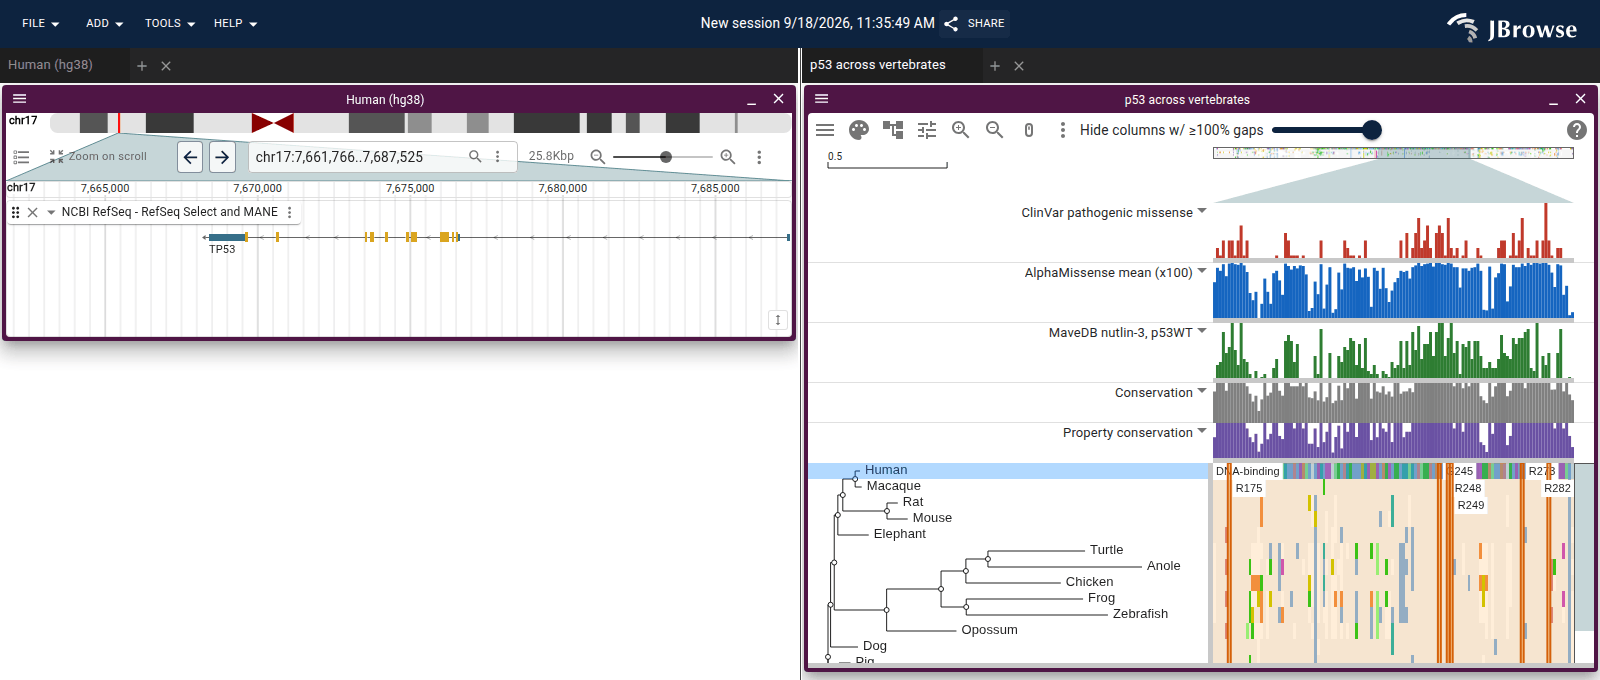
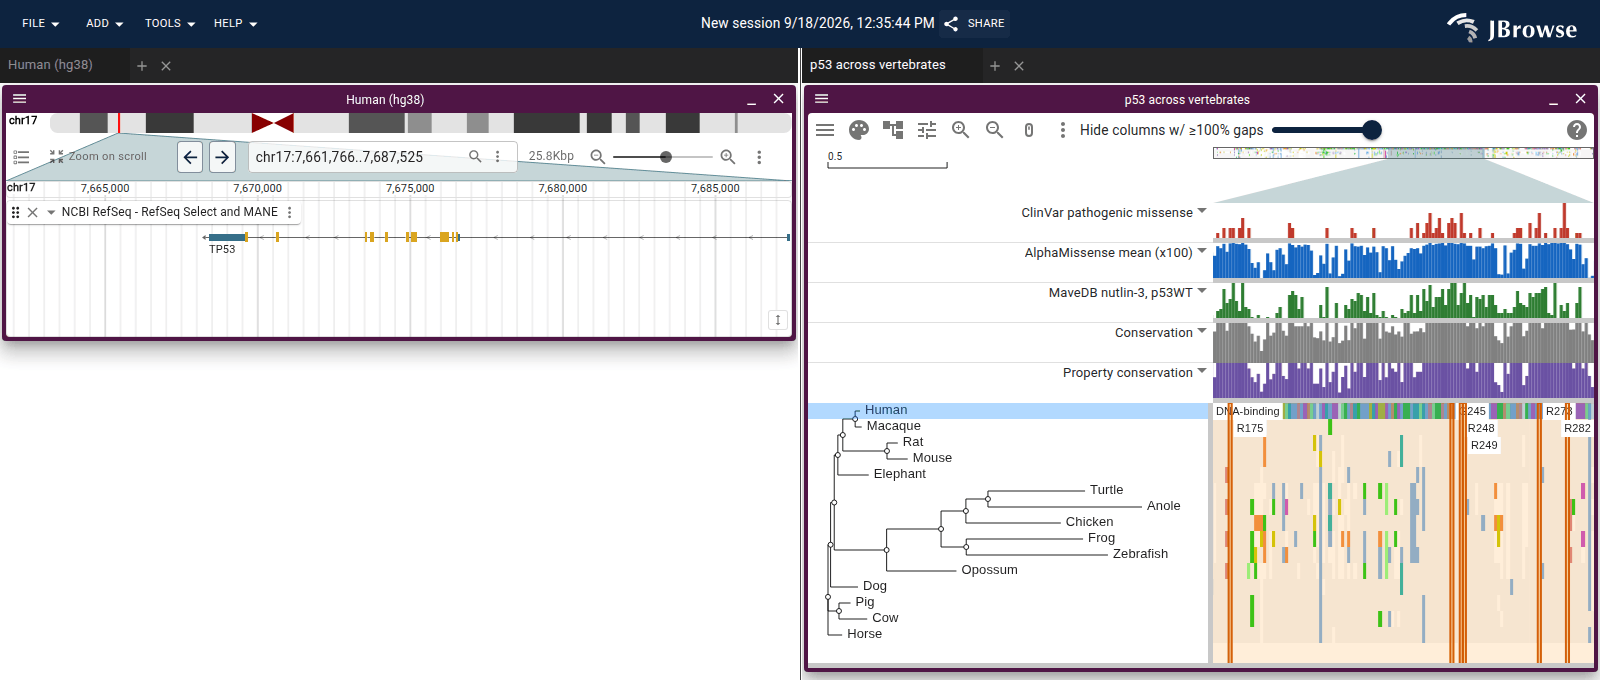
3.7.1

diff --git a/src/version.ts b/src/version.ts
@@ -1,1 +1,1 @@
-export const version = '3.7.0'
+export const version = '3.7.1'

diff --git a/CHANGELOG.md b/CHANGELOG.md
@@ -1,3 +1,19 @@
+## [3.7.1](https://github.com/GMOD/jbrowse-plugin-msaview/compare/v3.7.0...v3.7.1) (2026-09-18)
+
+### Chores
+
+- React-msaview and msa-parsers 8.2.0, which carry expandSpec ([4af193b](https://github.com/GMOD/jbrowse-plugin-msaview/commit/4af193b64aded201c7dca22c6c6b514d436c62c8))
+
+### Documentation
+
+- Capture the README figure from the demo link at every release ([22cc49f](https://github.com/GMOD/jbrowse-plugin-msaview/commit/22cc49f404d17456b380d0cb801ced7ea2d1026d))
+- Drop the ClinVar track from the demo's genome view ([6bda0cf](https://github.com/GMOD/jbrowse-plugin-msaview/commit/6bda0cf3c5c18ab40116574fad4f242fcb2ae1c6))
+- README as a portal; split DEVELOPERS.md into launching, parameters, alignments from a gene and linked views; add a guide for your own alignments ([4325447](https://github.com/GMOD/jbrowse-plugin-msaview/commit/432544703737bd4bbd900780b3fab4e9c03e351d))
+
+### Features
+
+- Session specs take react-msaview's short forms, and the demo link uses them ([65754d9](https://github.com/GMOD/jbrowse-plugin-msaview/commit/65754d975d04feb28a1f534cbfcd283e84b829e3))
+
 ## [3.7.0](https://github.com/GMOD/jbrowse-plugin-msaview/compare/v3.6.0...v3.7.0) (2026-09-18)
 
 ### Bug Fixes
